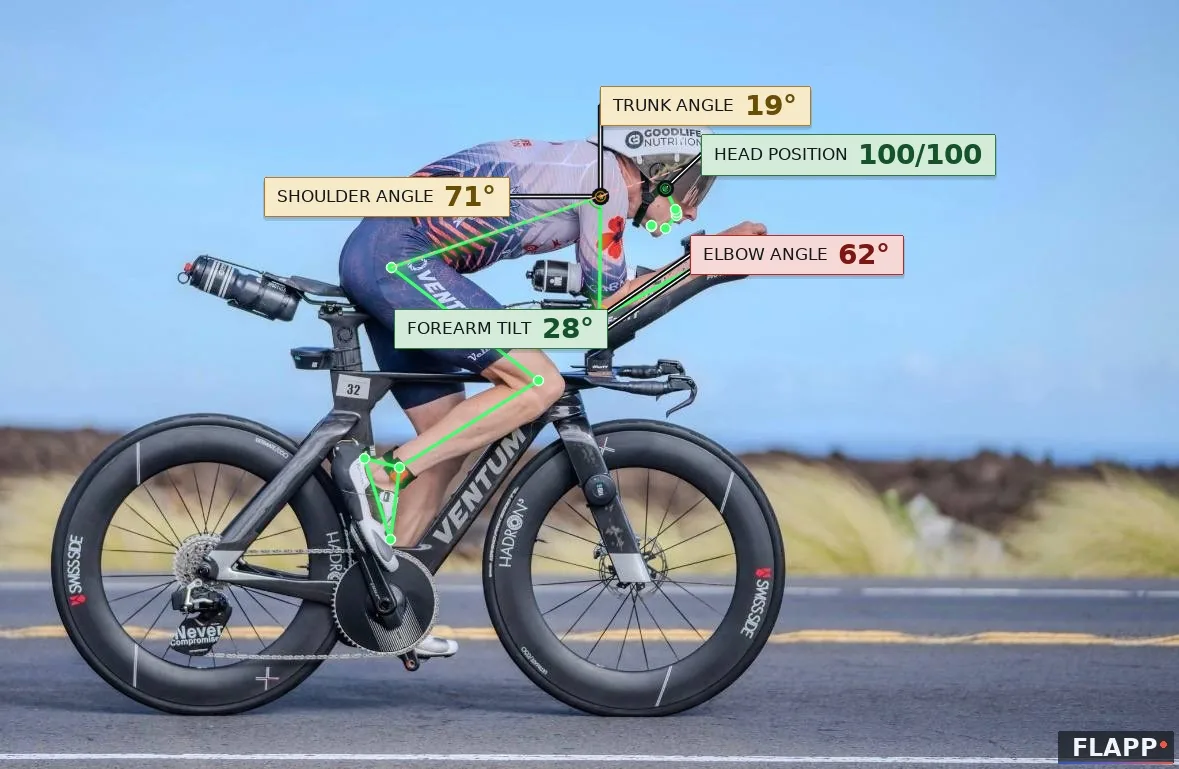
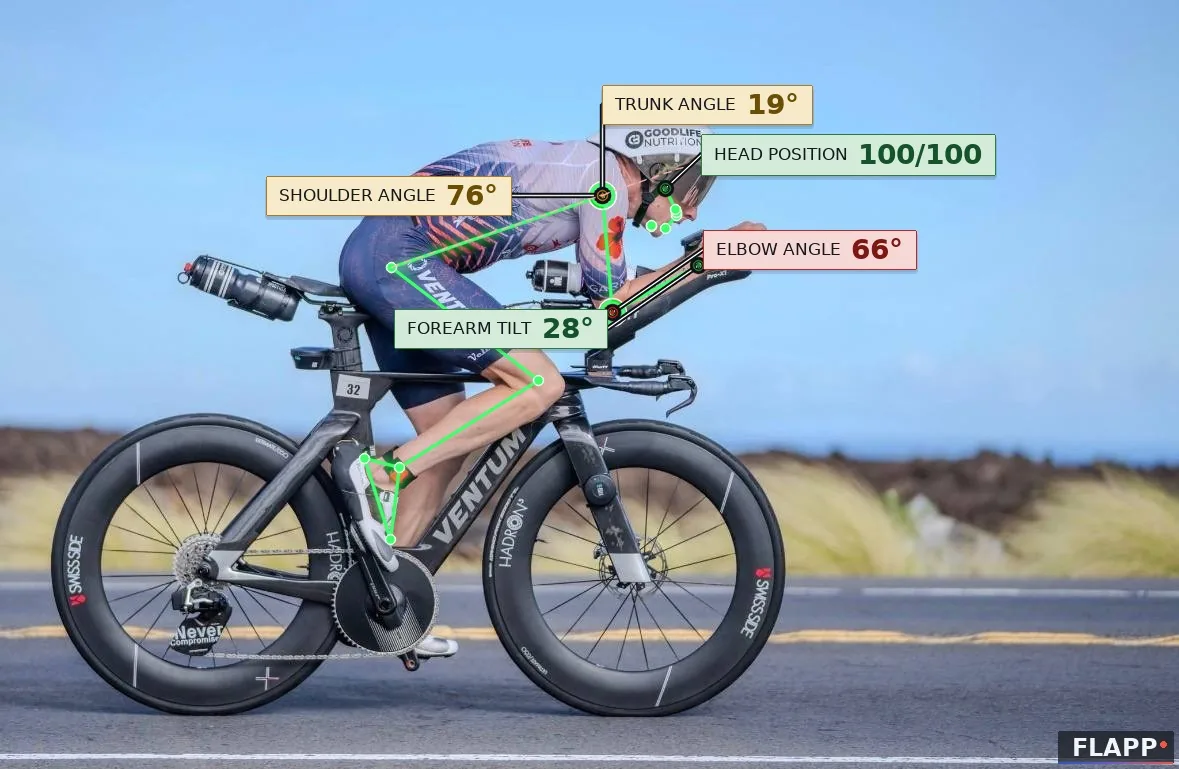
Kona article: every joint point checked by hand, numbers and figures re-measured, UCI wording fixed
Readers said several model points sat off the joints. Artur moved the ones
that missed on all fourteen photos (33 of 56 points, median ~2 cm); every
moved point is ringed, and the method lists before-and-after medians.
Medians barely move (shoulder 85->88, elbow 80->84, forearm 25->24), but
the flattest forearm goes 10->19 and closed shoulders 5->2, so sections 1
and 3 are rewritten to match. Rider C is now the lowest shoulder.

UCI rules govern road time trials, not Ironman; the 2025 Ironman rules cap
extension length, not tilt. The article no longer presents the UCI change
as triathlon's rule.

Changed region(s): [[0.2137, 0.0936, 0.7023, 0.4369], [0.5496, 0.2809, 0.7939, 0.3745]]

diff --git a/backend/tests/test_academy_figures.py b/backend/tests/test_academy_figures.py
@@ -41,7 +41,7 @@ class TestTheKonaDraft:
         invalidate_cache()
         art = get_article("kona-2026-pro-bike-positions")
         assert art is not None and art.meta.category == "bike-aero"
-        assert len(art.sources) >= 7
+        assert len(art.sources) >= 8
         assert art.body_html.count("<figure>") >= 5
 
     def test_every_figure_it_shows_exists(self):
@@ -61,20 +61,31 @@ class TestTheKonaDraft:
         tilts = [float(m) for m in re.findall(r"Position \d+ of 14: forearm tilt (\d+)", text)]
         assert tilts == sorted(tilts), "ordered from the flattest forearms to the steepest"
 
-    def test_the_one_hand_corrected_point_is_disclosed(self):
-        """Position 4: the model put the shoulder on the top edge of the back
-        (torso read 39 deg); moved into the joint by hand it reads 30. The
-        article says so, in the caption and in the method."""
+    def test_the_hand_corrections_are_disclosed(self):
+        """Readers pointed out points sitting off the joints; Artur moved the
+        ones that missed on all fourteen photos (2026-10-11). The article says
+        it was updated, how many points moved and by how much, rings every
+        moved point, and gives the before-and-after medians."""
         text = DRAFT.read_text(encoding="utf-8")
-        assert "Position 4 of 14: forearm tilt 21°, torso 30°" in text
-        assert "moved by hand" in text and "from 39° to 30°" in text
+        assert text.split("---", 2)[2].lstrip().startswith("**Updated 11 October 2026.**")
+        assert "33 of the 56 points moved" in text
+        assert "A ringed point is one we moved into the joint by hand." in text
+        assert "shoulder 85° to 88°, elbow 80° to 84°, forearm tilt 25° to 24°" in text
+
+    def test_uci_is_not_presented_as_a_triathlon_rule(self):
+        """UCI equipment rules govern road time trials, not Ironman, whose 2025
+        rules limit extension length and not tilt (Artur, 2026-10-11)."""
+        text = DRAFT.read_text(encoding="utf-8")
+        assert "Those rules do not apply to Ironman." in text
+        assert "the UCI limit." not in text
+        assert "The rules moved first." not in text
 
     def test_the_numbers_in_the_text_match_the_table(self):
         text = DRAFT.read_text(encoding="utf-8")
-        for row in ("| Torso, from horizontal | 20° | 17–24° | 12–32° | 20–30° |",
-                    "| Shoulder, torso to upper arm | 85° | 77–88° | 71–97° | 80–105° |",
-                    "| Elbow | 80° | 76–89° | 62–107° | 75–110° |",
-                    "| Forearm tilt, above horizontal | 25° | 21–26° | 10–31° | 5–30° |"):
+        for row in ("| Torso, from horizontal | 20° | 19–23° | 13–25° | 20–30° |",
+                    "| Shoulder, torso to upper arm | 88° | 84–89° | 74–96° | 80–105° |",
+                    "| Elbow | 84° | 76–88° | 66–93° | 75–110° |",
+                    "| Forearm tilt, above horizontal | 24° | 22–26° | 19–32° | 5–30° |"):
             assert row in text, row
 
     def test_the_article_column_cannot_be_pushed_wider_than_a_phone(self):

diff --git a/backend/content/academy/kona-2026-pro-bike-positions.md b/backend/content/academy/kona-2026-pro-bike-positions.md
@@ -1,7 +1,7 @@
 ---
 slug: "kona-2026-pro-bike-positions"
 title: "Kona 2026: What 14 Pro Bike Positions Actually Measure"
-description: "We measured fourteen professional triathlon positions from Ironman World Championship race photos. Hands are up, torsos are not as low as you think, and a closed shoulder is a choice. The numbers, and what an age-grouper should take from them."
+description: "We measured fourteen professional triathlon positions from Ironman World Championship race photos and checked every joint point by hand. Hands are up, torsos are not as low as you think, and a closed shoulder is a choice. The numbers, and what an age-grouper should take from them."
 category: "bike-aero"
 sport: "bike"
 read_time: 7
@@ -27,7 +27,11 @@ sources:
   - author: "UCI"
     year: 2023
     title: "UCI Regulations for road cycling: changes for time trials (in force as of 1 January 2023)"
-    finding: "The maximum inclination of the forearm support was raised from 15° to 30°."
+    finding: "For road time trials, the maximum inclination of the forearm support was raised from 15° to 30°. These are cycling rules; they do not govern triathlon."
+  - author: "Slowtwitch"
+    year: 2025
+    title: "IRONMAN Tweaks Drafting, Cycling Equipment Rules for 2025"
+    finding: "IRONMAN's 2025 rules regulate aerobar length for the first time: extensions must not extend beyond the leading edge of the front wheel (rule 5.3(c)). The coverage names no limit on tilt."
   - author: "Steinmetz, M."
     year: 2024
     title: "Aero Evolution: Kona Pro Bike Positions (Slowtwitch)"
@@ -38,95 +42,104 @@ sources:
     finding: "A 90° torso-to-upper-arm angle is the reference; less than 90° is the athlete's personal choice, while an angle more obtuse than 90° can become an issue."
 ---
 
-The day after the Ironman World Championship we ran fourteen professional bike positions, taken from race photographs, through the same pose model Flapp uses on your clips. The median pro rode with the torso 20° above horizontal, the upper arm at 85° to the torso, the elbow bent to 80° and the forearms tilted 25° up. Two of those four numbers sit at, or past, the edge of where most fit guidelines still put them.
+**Updated 11 October 2026.** After the first version went out, readers pointed out that some of the pose model's points sat off the joints. They were right, so we checked every point on every photo and moved the ones that missed into the joint by hand. All the numbers, figures and photos below are the corrected ones; what changed is listed under "How we measured".
+
+The day after the Ironman World Championship we ran fourteen professional bike positions, taken from race photographs, through the same pose model Flapp uses on your clips. The median pro rode with the torso 20° above horizontal, the upper arm at 88° to the torso, the elbow bent to 84° and the forearms tilted 24° up. The forearms are the story: not one of the fourteen rode them flat.
 
 ## The median Kona position
 
 | Angle | Median | Middle half | Full range | Flapp's triathlon range |
 |---|---|---|---|---|
-| Torso, from horizontal | 20° | 17–24° | 12–32° | 20–30° |
-| Shoulder, torso to upper arm | 85° | 77–88° | 71–97° | 80–105° |
-| Elbow | 80° | 76–89° | 62–107° | 75–110° |
-| Forearm tilt, above horizontal | 25° | 21–26° | 10–31° | 5–30° |
+| Torso, from horizontal | 20° | 19–23° | 13–25° | 20–30° |
+| Shoulder, torso to upper arm | 88° | 84–89° | 74–96° | 80–105° |
+| Elbow | 84° | 76–88° | 66–93° | 75–110° |
+| Forearm tilt, above horizontal | 24° | 22–26° | 19–32° | 5–30° |
 
 ![Each dot is one of the fourteen positions; the green strip is the range Flapp uses for a triathlon aero position. Amber marks a reading below the range that costs no points.](/media/academy/kona-2026/field.webp)
 
 ## 1. The hands have gone up
 
-In seven of the fourteen positions the forearms were tilted more than 25° above horizontal, and one passed 30°. Only two were under 15°. A few years ago a flat forearm was the default; at Kona it was the exception.
+In every one of the fourteen positions the forearms were tilted at least 19° above horizontal. Six were past 25°, and one passed 30°. A few years ago a flat forearm was the default; at Kona nobody rode one.
 
-The rules moved first. From 1 January 2023 the UCI raised the maximum tilt of the armrests from 15° to 30°, and the field has filled that space. The aerodynamics followed: in a 2025 study that modelled one professional rider and checked the model in a wind tunnel, very high hands alone cut drag area by 3%. Combined with narrow elbows the saving grew to 7.7% for high hands and 11.2% for very high hands. Mat Steinmetz, a fitter who works with professional triathletes, describes the same change from the other side: 10–20° of bar tilt supports the upper body, relaxes the shoulders and makes a pocket for the head.
+Triathlon never had the rule that held road time trials back. Under UCI rules, the armrests in a road time trial could tilt no more than 15° until 1 January 2023, when the limit went up to 30°. Those rules do not apply to Ironman. Its 2025 rules limit how far the extensions reach, not past the leading edge of the front wheel, and set no limit on tilt. So the pros at Kona could go as steep as they liked, and the middle half of the field settled between 22° and 26°.
 
-![Rider A, the traditional shape: forearms almost flat at 10°, elbow open to 107°. Flapp's overlay on the race photograph.](/media/academy/kona-2026/rider-a.webp)
+The aerodynamics back them. In a 2025 study that modelled one professional rider and checked the model in a wind tunnel, very high hands alone cut drag area by 3%. Combined with narrow elbows the saving grew to 7.7% for high hands and 11.2% for very high hands. Mat Steinmetz, a fitter who works with professional triathletes, describes the same change from the other side: 10–20° of bar tilt supports the upper body, relaxes the shoulders and makes a pocket for the head.
 
-![Rider B, the new one: forearms at 31°, elbow closed to 71°, torso at 15°.](/media/academy/kona-2026/rider-b.webp)
+![Rider A, the flattest forearms in the field: 19°, with the elbow open to 91°. Flapp's overlay on the race photograph.](/media/academy/kona-2026/rider-a.webp)
 
-Two cautions. The saving is rider-specific, and the same study found that a smaller frontal area did not automatically mean less drag. And the elbow pays for it: when the hands rise, the elbow has to close. Across the field the two moved together more tightly than any other pair we measured (r = −0.76). Four riders sat below the 75° elbow floor in our own range. That floor was written for flatter forearms; we have not lowered it because we have not yet found a fitter or a study that names a lower number. If you ride tilted extensions, read your elbow angle together with your forearm tilt, not on its own.
+![Rider B, one of the steepest: forearms at 28°, elbow closed to 75°, torso at 15°.](/media/academy/kona-2026/rider-b.webp)
+
+Two cautions. The saving is rider-specific, and the same study found that a smaller frontal area did not automatically mean less drag. And the elbow pays for it: when the hands rise, the elbow tends to close. Across the field the two moved in opposite directions (r = −0.58). Three riders sat below the 75° elbow floor in our own range. That floor was written for flatter forearms; we have not lowered it because we have not yet found a fitter or a study that names a lower number. If you ride tilted extensions, read your elbow angle together with your forearm tilt, not on its own.
 
 ## 2. The torso is not as low as you would think
 
-The median torso was 20°, and half the field sat between 17° and 24°. That is lower than most age-groupers ride, but it is not the flat back of a track pursuit. Steinmetz makes the same point: the pros' back angles have hardly changed in recent years. What changed is where the hands and the reach are.
+The median torso was 20°, and half the field sat between 19° and 23°. That is lower than most age-groupers ride, but it is not the flat back of a track pursuit. Steinmetz makes the same point: the pros' back angles have hardly changed in recent years. What changed is where the hands and the reach are.
 
 There is a reason the back stops where it does. Fintelman's work on nineteen trained cyclists measured what a lower torso buys and what it costs. Going from 24° to 16° cut frontal area by about 5%, and going on to 8° cut about another 5%. But maximal power and every physiological variable fell as the torso dropped, and the flattest position was significantly worse than all the others. His models put the best torso angle around 17° for speeds between 32 and 39 km/h, and found that a fully flat back is never optimal.
 
-Six of the fourteen positions were below 20°. Pros can hold that: years of conditioning, four or more hours at a time. Most age-group athletes cannot hold that and still make their power. Flapp does not take points for a torso flatter than the range on aero bars, but it says plainly that this is the trade, and that it only pays if you can still breathe, push and hold it late in the race.
+Seven of the fourteen positions were below 20°, the lowest at 13°. Pros can hold that: years of conditioning, four or more hours at a time. Most age-group athletes cannot hold that and still make their power. Flapp does not take points for a torso flatter than the range on aero bars, but it says plainly that this is the trade, and that it only pays if you can still breathe, push and hold it late in the race.
 
 ## 3. A closed shoulder is a choice, not an error
 
-In five of the fourteen positions the upper arm was closer than 80° to the torso, the lowest at 71°. Fit guidance still puts the reference at 90°: elbows under the shoulders. But the people who wrote that guidance never called less than 90° a fault. Dan Empfield's original description of the measurement says an angle below 90° is the athlete's personal choice, and that it is an angle opened past 90° that can become a problem. Fintelman's riders, in their own preferred positions, averaged 91° give or take 5°.
+Most of the field sat close to the classic reference. The median upper arm was at 88° to the torso, and half the field sat between 84° and 89°. Fit guidance puts the reference at 90°: elbows under the shoulders. Fintelman's riders, in their own preferred positions, averaged 91° give or take 5°. Kona's median sits right on top of that.
 
-![Rider C: the shoulder closed to 71°, forearms at 28°, elbow at 62°.](/media/academy/kona-2026/rider-c.webp)
+Two positions closed the shoulder further, to 76° and 74°. The people who wrote the guidance never called that a fault. Dan Empfield's original description of the measurement says an angle below 90° is the athlete's personal choice, and that it is an angle opened past 90° that can become a problem.
 
-![The same rider in Flapp's joint-angle table. The shoulder and the torso below their ranges read "acceptable", amber, with no points lost. The elbow is flagged; see the caution in section 1.](/media/academy/kona-2026/rider-c-table.webp)
+![Rider C: the shoulder closed to 74°, forearms at 25°, elbow at 71°.](/media/academy/kona-2026/rider-c.webp)
+
+![The same rider in Flapp's joint-angle table. The shoulder below its range reads "acceptable", amber, with no points lost. The elbow is flagged; see the caution in section 1.](/media/academy/kona-2026/rider-c-table.webp)
 
 What to check if you ride like Rider C: whether the shoulders are shrugged up toward the ears, which is tiring and hard to breathe through, and whether the arms are carrying you or you are holding yourself up.
 
 ## All fourteen positions
 
-Every position we measured, ordered from the flattest forearms to the steepest. The labels are Flapp's own readings for a triathlon position: green inside the range, amber just outside it or below it at no cost, red outside it. Knee, hip and ankle are left off for the reasons in the next section.
+Every position we measured, ordered from the flattest forearms to the steepest. The labels are Flapp's own readings for a triathlon position: green inside the range, amber just outside it or below it at no cost, red outside it. A ringed point is one we moved into the joint by hand. Knee, hip and ankle are left off for the reasons in the next section.
 
-![Position 1 of 14: forearm tilt 10°, torso 22°, shoulder 95°, elbow 107°.](/media/academy/kona-2026/position-01.webp)
+![Position 1 of 14: forearm tilt 19°, torso 23°, shoulder 86°, elbow 91°.](/media/academy/kona-2026/position-01.webp)
 
-![Position 2 of 14: forearm tilt 13°, torso 30°, shoulder 77°, elbow 94°.](/media/academy/kona-2026/position-02.webp)
+![Position 2 of 14: forearm tilt 21°, torso 25°, shoulder 83°, elbow 88°.](/media/academy/kona-2026/position-02.webp)
 
-![Position 3 of 14: forearm tilt 19°, torso 19°, shoulder 77°, elbow 77°.](/media/academy/kona-2026/position-03.webp)
+![Position 3 of 14: forearm tilt 22°, torso 25°, shoulder 86°, elbow 89°.](/media/academy/kona-2026/position-03.webp)
 
-![Position 4 of 14: forearm tilt 21°, torso 30°, shoulder 77°, elbow 86°. The ringed shoulder point was moved by hand: the model had put it on the top edge of the back.](/media/academy/kona-2026/position-04.webp)
+![Position 4 of 14: forearm tilt 22°, torso 15°, shoulder 90°, elbow 83°.](/media/academy/kona-2026/position-04.webp)
 
-![Position 5 of 14: forearm tilt 21°, torso 25°, shoulder 86°, elbow 90°.](/media/academy/kona-2026/position-05.webp)
+![Position 5 of 14: forearm tilt 22°, torso 19°, shoulder 89°, elbow 86°.](/media/academy/kona-2026/position-05.webp)
 
-![Position 6 of 14: forearm tilt 23°, torso 16°, shoulder 89°, elbow 82°.](/media/academy/kona-2026/position-06.webp)
+![Position 6 of 14: forearm tilt 24°, torso 20°, shoulder 88°, elbow 84°.](/media/academy/kona-2026/position-06.webp)
 
-![Position 7 of 14: forearm tilt 24°, torso 15°, shoulder 86°, elbow 78°.](/media/academy/kona-2026/position-07.webp)
+![Position 7 of 14: forearm tilt 24°, torso 19°, shoulder 81°, elbow 76°.](/media/academy/kona-2026/position-07.webp)
 
-![Position 8 of 14: forearm tilt 25°, torso 21°, shoulder 82°, elbow 78°.](/media/academy/kona-2026/position-08.webp)
+![Position 8 of 14: forearm tilt 25°, torso 22°, shoulder 74°, elbow 71°.](/media/academy/kona-2026/position-08.webp)
 
-![Position 9 of 14: forearm tilt 26°, torso 20°, shoulder 74°, elbow 68°.](/media/academy/kona-2026/position-09.webp)
+![Position 9 of 14: forearm tilt 26°, torso 22°, shoulder 92°, elbow 88°.](/media/academy/kona-2026/position-09.webp)
 
-![Position 10 of 14: forearm tilt 26°, torso 12°, shoulder 96°, elbow 82°.](/media/academy/kona-2026/position-10.webp)
+![Position 10 of 14: forearm tilt 26°, torso 13°, shoulder 96°, elbow 82°.](/media/academy/kona-2026/position-10.webp)
 
-![Position 11 of 14: forearm tilt 26°, torso 32°, shoulder 88°, elbow 93°.](/media/academy/kona-2026/position-11.webp)
+![Position 11 of 14: forearm tilt 26°, torso 25°, shoulder 94°, elbow 93°.](/media/academy/kona-2026/position-11.webp)
 
-![Position 12 of 14: forearm tilt 28°, torso 19°, shoulder 71°, elbow 62°.](/media/academy/kona-2026/position-12.webp)
+![Position 12 of 14: forearm tilt 28°, torso 19°, shoulder 76°, elbow 66°.](/media/academy/kona-2026/position-12.webp)
 
-![Position 13 of 14: forearm tilt 30°, torso 21°, shoulder 84°, elbow 75°.](/media/academy/kona-2026/position-13.webp)
+![Position 13 of 14: forearm tilt 28°, torso 15°, shoulder 89°, elbow 75°.](/media/academy/kona-2026/position-13.webp)
 
-![Position 14 of 14: forearm tilt 31°, torso 15°, shoulder 88°, elbow 71°.](/media/academy/kona-2026/position-14.webp)
+![Position 14 of 14: forearm tilt 32°, torso 21°, shoulder 87°, elbow 76°.](/media/academy/kona-2026/position-14.webp)
+
 ## What we did not measure, and why
 
 No knee angles and no saddle verdicts. In a single race photo the crank is wherever it happened to be, so the knee angle is not a saddle-height reading. There is a second reason. Every one of these photos was taken from the drive side, the side with the chainring, because the riders crossed the frame in the same direction past photographers on one side of the road. On two bikes of our own we measured that the drive side reads the knee at the bottom of the stroke 8–10° lower than it really is: the ankle point slides onto the dark chainring behind it. So we left the legs out rather than publish numbers we know are biased.
 
-How we measured: fifteen photographs. One was rejected. The model had found the passenger on the camera motorbike instead of the rider, and Flapp returned no score rather than a wrong one. On the other fourteen, angles were measured in 2D on the side of the body nearest the camera. A pose model's points are its best guess at where each joint is, not the bony landmarks a fitter would mark by hand, so on any single photo a point can sit a couple of centimetres off, and that moves an angle by a few degrees: about 3° for a 2–3 cm miss. That is why we report the field rather than anyone's exact fit. Across fourteen positions those misses mostly wash out in the medians, and the differences that matter here, like the 15–20° spread in forearm tilt, are much bigger than that. Some athletes may appear in more than one photo; we could not check, so each photo counts as one position. The labels on the photographs are drawn by the same renderer the app uses on your own photos. In one photo, position 4, the model put the shoulder point on the top edge of the back instead of in the joint. We moved it down into the deltoid by hand, the way the app lets you correct a point, and the ring on that figure marks it; it changed that rider's torso from 39° to 30°. Every other point is the model's own. It is one race, one day and one roadside viewpoint, so read these as the shape of a field, not as anyone's exact fit. We do not name the athletes: we cannot verify who is in every frame, and the point is the position, not the person.
+How we measured: fifteen photographs. One was rejected. The model had found the passenger on the camera motorbike instead of the rider, and Flapp returned no score rather than a wrong one. On the other fourteen, angles were measured in 2D on the side of the body nearest the camera, from four points: shoulder, elbow, wrist and hip. A pose model's points are its best guess at where each joint is, not the bony landmarks a fitter would mark by hand, and in the first version of this article several of them missed. So we went through all fourteen photos and moved every point that missed into the joint by hand, the same way the app lets you correct a point on your own photo. 33 of the 56 points moved, by a median of about 2 cm. The largest move, about 8 cm, was the shoulder in position 9, which the model had put on the top edge of the back. Centimetres here are estimated from each rider's own hip-to-shoulder distance, taken as 50 cm. Every moved point is ringed on its photo.
+
+The corrections moved the medians by 4° at most: torso 20° before and after, shoulder 85° to 88°, elbow 80° to 84°, forearm tilt 25° to 24°. They changed single riders more. The flattest forearm went from 10° to 19°, and the number of shoulders closed below 80° went from five to two. That is why we report the field rather than anyone's exact fit. Some athletes may appear in more than one photo; we could not check, so each photo counts as one position. The labels on the photographs are drawn by the same renderer the app uses on your own photos. It is one race, one day and one roadside viewpoint, so read these as the shape of a field, not as anyone's exact fit. We do not name the athletes: we cannot verify who is in every frame, and the point is the position, not the person.
 
 ## What to take for your own position
 
-- **Try some forearm tilt before you chase a lower torso.** It is the trend with the best evidence, it is cheap to adjust, and 10–20° is where most of the field sat. Keep the elbows narrow; that is where most of the measured saving came from.
+- **Try some forearm tilt before you chase a lower torso.** It is the trend with the best evidence and it is cheap to adjust. Every position here had at least 19°, and the middle half sat between 22° and 26°. Keep the elbows narrow; that is where most of the measured saving came from.
 - **Do not copy a 15° torso.** Find the lowest angle you can hold for your race distance and still make your power, then test it in training at race effort.
 - **A closed shoulder is fine** if you are not shrugging and you can breathe.
-- **Measure yourself the same way.** Film from the side away from the chainring, camera at hip height, and include the bottom of the pedal stroke. Then you can put your own numbers next to the table above.
+- **Measure yourself the same way.** Film from the side away from the chainring, camera at hip height, and include the bottom of the pedal stroke. If a point lands off a joint, drag it into place before you read the numbers. Then you can put your own numbers next to the table above.
 
 ## What we changed in Flapp
 
-Measuring this field showed that three of our own rules were behind it, and we changed each one only as far as a source supports. The forearm-tilt range now runs to 30°, the UCI limit. A shoulder closed below the range on aero bars is amber and costs a third of the penalty, because no source calls it a fault. The aero estimate, which used to put every torso below 28° in one bucket, now separates three steps using Fintelman's measured frontal areas. And a torso flatter than the range costs no points, but comes with the concern you read above.
+Measuring this field showed that three of our own rules were behind it, and we changed each one only as far as a source supports. The forearm-tilt range now runs to 30°. That is the ceiling road time trials allow under UCI rules; triathlon sets none, and one Kona position went past it, so read it as a reference, not a rule. A shoulder closed below the range on aero bars is amber and costs a third of the penalty, because no source calls it a fault. The aero estimate, which used to put every torso below 28° in one bucket, now separates three steps using Fintelman's measured frontal areas. And a torso flatter than the range costs no points, but comes with the concern you read above.
 
 [Measure your own position](/app)
